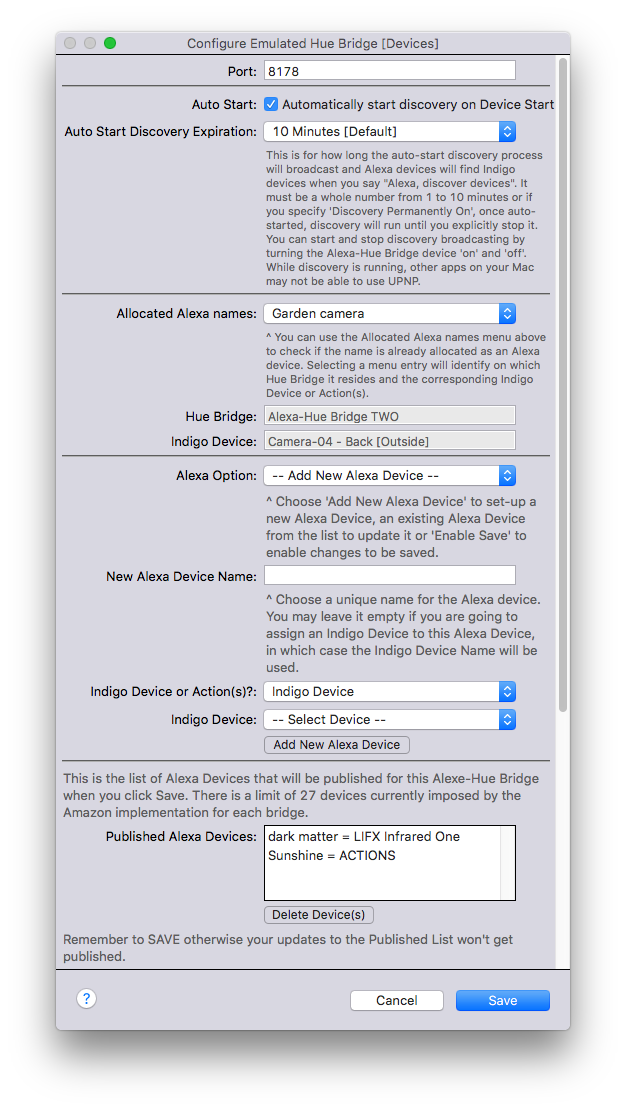
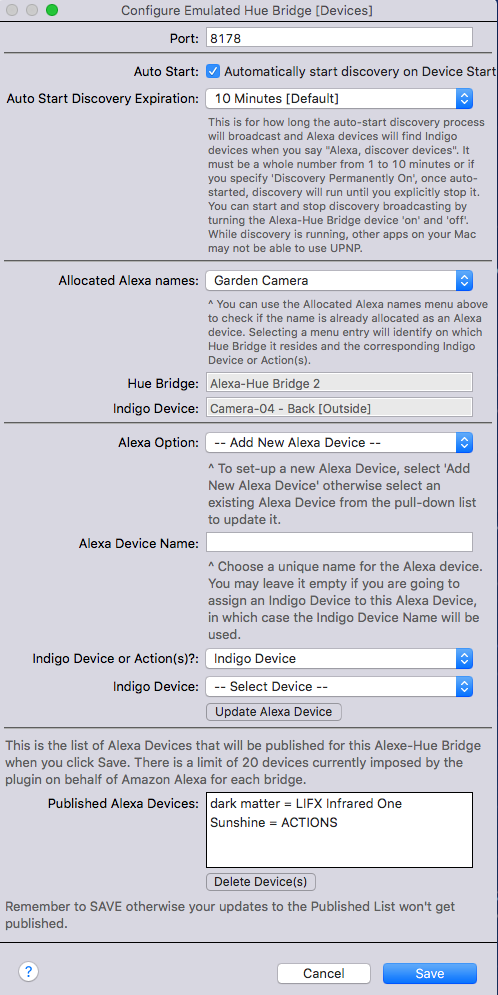
Handle Invalid Characters
Add processing to handle commas and semicolons in Alexa Names. Minor
bug fixes. Documentation updates.

diff --git a/Alexa-Hue Bridge.indigoPlugin/Contents/Server Plugin/plugin.py b/Alexa-Hue Bridge.indigoPlugin/Contents/Server Plugin/plugin.py
@@ -127,7 +127,7 @@ class Plugin(indigo.PluginBase):
 
     def checkRateLimit(self):
         limiter = self.globals['update']['updater'].getRateLimit()
-        indigo.server.log('RateLimit {limit:%d remaining:%d resetAt:%d}' % limiter)
+        self.generalLogger.info('RateLimit {limit:%d remaining:%d resetAt:%d}' % limiter)
 
 
     def startup(self):
@@ -604,6 +604,25 @@ class Plugin(indigo.PluginBase):
         return super(Plugin, self).getDeviceConfigUiValues(pluginProps, typeId, ahbDevId)
 
     ########################################
+    # This method is called to load the stored json data and make sure the Alexa Name keys are valid before returning data
+    # i.e. remove leading/trailing spaces, remove caharcters ',', ';', replace multiple concurrent spaces with one space, force to lower case
+    ########################################
+    def jsonLoadsProcess(self, dataToLoad):
+
+        publishedAlexaDevices = json.loads(dataToLoad)
+
+        alexaDeviceNameKeyList = []
+        for alexaDeviceNameKey, alexaDeviceData in publishedAlexaDevices.iteritems():
+            alexaDeviceNameKeyList.append(alexaDeviceNameKey)
+
+        for alexaDeviceNameKey in alexaDeviceNameKeyList:
+            alexaDeviceNameKeyProcessed = ' '. join((alexaDeviceNameKey.strip().lower().replace(',',' ').replace(';',' ')).split())
+            if alexaDeviceNameKeyProcessed != alexaDeviceNameKey:
+                publishedAlexaDevices[alexaDeviceNameKeyProcessed] = publishedAlexaDevices.pop(alexaDeviceNameKey)
+
+        return publishedAlexaDevices
+
+    ########################################
     # This method is called to refresh the list of published Alexa devices for a hueBridge device.
     ########################################
     def retrievePublishedDevices(self, valuesDict, ahbDevId, infoMsg, convertVersionTwoDevices):
@@ -615,7 +634,7 @@ class Plugin(indigo.PluginBase):
             if 'alexaDevices' not in valuesDict:
                 valuesDict['alexaDevices'] = json.dumps({})  # Empty dictionary in JSON container
 
-            publishedAlexaDevices = json.loads(valuesDict['alexaDevices'])
+            publishedAlexaDevices = self.jsonLoadsProcess(valuesDict['alexaDevices'])
 
             for alexaDeviceNameKey, alexaDeviceData in publishedAlexaDevices.iteritems():
                 if alexaDeviceData['mode'] == 'D':  # Device
@@ -658,12 +677,12 @@ class Plugin(indigo.PluginBase):
                                     versionTwoAlexaDeviceName = dev.name
                                     if 'alternate-name' in versionTwoAlexaDeviceData:
                                         versionTwoAlexaDeviceName = versionTwoAlexaDeviceData['alternate-name']
-                                    versionTwoAlexaDeviceNameKey = versionTwoAlexaDeviceName.lower()
+                                    versionTwoAlexaDeviceNameKey = ' '. join((versionTwoAlexaDeviceName.strip().lower()).split())
                                     if 'published' in versionTwoAlexaDeviceData:
                                         if versionTwoAlexaDeviceData['published'].lower() == 'true':
                                             # Do validity checks and discard (with message) if invalid
-                                            if '|' in versionTwoAlexaDeviceName:
-                                                indigo.server.error(u"Alexa Device (Plugin V2.x.x) '%s' definition detected in Indigo Device '%s': Unable to convert as Alexa Device Name cannot contain the vertical bar character i.e. '|'." % (versionTwoAlexaDeviceName, dev.name)) 
+                                            if ('|' in versionTwoAlexaDeviceName) or (',' in versionTwoAlexaDeviceName) or (';' in versionTwoAlexaDeviceName):
+                                                self.generalLogger.error(u"Alexa Device (Plugin V2.x.x) '%s' definition detected in Indigo Device '%s': Unable to convert as Alexa Device Name cannot contain the vertical bar character i.e. '|', the comma character i.e. ',' or the semicolon character i.e. ';'." % (versionTwoAlexaDeviceName, dev.name)) 
                                                 continue
 
                                             duplicateDetected = False
@@ -677,7 +696,7 @@ class Plugin(indigo.PluginBase):
                                                             self.generalLogger.error(u"Alexa Device (Plugin V2.x.x) '%s' definition detected in Indigo Device '%s': Unable to convert as Alexa Device Name this Alexa-Hue Bridge." % (alexaDeviceName, dev.name)) 
                                                         else:
                                                             alexaHueBridgeName = indigo.devices[alexaHueBridgeId].name
-                                                            self.generalLogger.error(u"Alexa Device (Plugin V2.x.x) '%s' definition detected in Indigo Device '%s': Unable to convert as Alexa Device Name is already allocated  on Alexa-Hue Bridge '%s'" % (alexaDeviceName, dev.name, alexaHueBridgeName)) 
+                                                            self.generalLogger.error(u"Alexa Device (Plugin V2.x.x) '%s' definition detected in Indigo Device '%s': Unable to convert as Alexa Device Name is already allocated on Alexa-Hue Bridge '%s'" % (alexaDeviceName, dev.name, alexaHueBridgeName)) 
                                             if duplicateDetected:
                                                 continue
             
@@ -735,7 +754,7 @@ class Plugin(indigo.PluginBase):
                     props = alexaHueBridge.pluginProps
                     alexaHueBridgeId = alexaHueBridge.id
                     if 'alexaDevices' in props:
-                        publishedAlexaDevices = json.loads(props['alexaDevices'])
+                        publishedAlexaDevices = self.jsonLoadsProcess(props['alexaDevices'])
                         self.globals['alexaHueBridge']['publishedOtherAlexaDevices'][alexaHueBridgeId] = {}
                         for alexaDeviceNameKey, alexaDeviceData in publishedAlexaDevices.iteritems():
                             if alexaDeviceData['mode'] == 'D':  # Device
@@ -756,7 +775,7 @@ class Plugin(indigo.PluginBase):
                             else:  # Not used
                                 continue
         except StandardError, e:
-            self.generalLogger.error(u"StandardError detected in retrieveOtherPublishedDevices for '%s'. Line '%s' has error='%s'" % (indigo.devices[ahbDev.id].name, sys.exc_traceback.tb_lineno, e))
+            self.generalLogger.error(u"StandardError detected in retrieveOtherPublishedDevices for '%s'. Line '%s' has error='%s'" % (indigo.devices[ahbDevId].name, sys.exc_traceback.tb_lineno, e))
 
     def validateDeviceConfigUi(self, valuesDict, typeId, ahbDevId):
         self.methodTracer.threaddebug(u"CLASS: Plugin")
@@ -921,15 +940,16 @@ class Plugin(indigo.PluginBase):
         # scan list of other Alexa-Hue Bridges
         for alexaHueBridgeId, alexaHueBridgeData in self.globals['alexaHueBridge']['publishedOtherAlexaDevices'].iteritems():
            for alexaDeviceNameKey, alexaDeviceData in alexaHueBridgeData.iteritems():
-                alexaDeviceNameKey = alexaDeviceNameKey.lower()
-                alexaDeviceName = alexaDeviceData['name']
+                alexaDeviceNameKey = alexaDeviceNameKey.lower().replace(',',' ').replace(';',' ')
+                alexaDeviceName = alexaDeviceData['name'].replace(',',' ').replace(';',' ')
                 self.globals['alexaDevicesListGlobal'][alexaDeviceNameKey] = int(alexaHueBridgeId)
+                alexaDeviceListKey = alexaDeviceNameKey + '|' + alexaDeviceName + '|' + str(alexaHueBridgeId)
                 alexaDeviceListKey = str('%s|%s|%s' %(alexaDeviceNameKey, alexaDeviceName, alexaHueBridgeId))
                 allocatedAlexaDevicesListGlobal.append((alexaDeviceListKey, alexaDeviceName))
 
         for alexaDeviceNameKey, alexaDeviceData in self.globals['alexaHueBridge'][ahbDevId]['publishedAlexaDevices'].iteritems():
-            alexaDeviceNameKey = alexaDeviceNameKey.lower()
-            alexaDeviceName = alexaDeviceData['name']
+            alexaDeviceNameKey = alexaDeviceNameKey.lower().replace(',',' ').replace(';',' ')
+            alexaDeviceName = alexaDeviceData['name'].replace(',',' ').replace(';',' ')
             self.globals['alexaDevicesListGlobal'][alexaDeviceNameKey] = ahbDevId
             alexaDeviceListKey = alexaDeviceNameKey + '|' + alexaDeviceName + '|' + str(ahbDevId)
             allocatedAlexaDevicesListGlobal.append((alexaDeviceListKey, alexaDeviceName))
@@ -1006,7 +1026,7 @@ class Plugin(indigo.PluginBase):
 
                     else:
                         valuesDict["alexaNameActionDevice"] = "D"
-                        deviceName = self.globals['alexaHueBridge']['publishedOtherAlexaDevices'][alexaHueBridgeId][alexaDeviceNameKey]['devName']
+                        deviceName = self.globals['alexaHueBridge']['publishedOtherAlexaDevices'][alexaHueBridgeId][alexaDeviceNameKey]['devName'].replace(',',' ').replace(';',' ')
                         deviceId = int(self.globals['alexaHueBridge']['publishedOtherAlexaDevices'][alexaHueBridgeId][alexaDeviceNameKey]['devId'])
                         if deviceId in indigo.devices:
                             valuesDict["alexaNameIndigoDevice"] = deviceName
@@ -1064,7 +1084,7 @@ class Plugin(indigo.PluginBase):
                                 valuesDict["alexaNameIndigoDimActionVariable"] = 'Variable #%s not found' % variableDimId
                     else:
                         valuesDict["alexaNameActionDevice"] = "D"
-                        deviceName = self.globals['alexaHueBridge'][alexaHueBridgeId]['publishedAlexaDevices'][alexaDeviceNameKey]['devName']
+                        deviceName = self.globals['alexaHueBridge'][alexaHueBridgeId]['publishedAlexaDevices'][alexaDeviceNameKey]['devName'].replace(',',' ').replace(';',' ')
                         deviceId = self.globals['alexaHueBridge'][alexaHueBridgeId]['publishedAlexaDevices'][alexaDeviceNameKey]['devId']
                         if deviceId in indigo.devices:
                             valuesDict["alexaNameIndigoDevice"] = deviceName
@@ -1084,8 +1104,8 @@ class Plugin(indigo.PluginBase):
 
 
         for alexaDeviceNameKey, alexaDeviceData in self.globals['alexaHueBridge'][ahbDevId]['publishedAlexaDevices'].iteritems():
-            alexaDeviceNameKey = alexaDeviceNameKey.lower()
-            alexaDeviceName = alexaDeviceData['name']
+            alexaDeviceNameKey = alexaDeviceNameKey.lower().replace(',',' ').replace(';',' ')
+            alexaDeviceName = alexaDeviceData['name'].replace(',',' ').replace(';',' ')
             alexaDeviceListKey = alexaDeviceNameKey + '|' + alexaDeviceName + '|' + str(ahbDevId)
             allocatedAlexaDevicesList.append((alexaDeviceListKey, alexaDeviceName))
 
@@ -1097,6 +1117,8 @@ class Plugin(indigo.PluginBase):
 
         if "alexaDevicesList" in valuesDict:
             alexaDeviceNameKey, alexaDeviceName, alexaHueBridgeId = valuesDict["alexaDevicesList"].split("|")
+            alexaDeviceNameKey.replace(',',' ').replace(';',' ')
+            alexaDeviceName.replace(',',' ').replace(';',' ')
 
             alexaHueBridgeId = int(alexaHueBridgeId)
             if  alexaHueBridgeId == 0:
@@ -1193,6 +1215,18 @@ class Plugin(indigo.PluginBase):
             errorsDict["showAlertText"] = "New Alexa Name cannot contain the vertical bar character i.e. '|'"
             return (valuesDict, errorsDict) 
 
+        if ',' in valuesDict["newAlexaName"]:
+            errorsDict = indigo.Dict()
+            errorsDict["newAlexaName"] = "New Alexa Name cannot contain the comma character i.e. ','"
+            errorsDict["showAlertText"] = "New Alexa Name cannot contain the comma character i.e. ','"
+            return (valuesDict, errorsDict) 
+
+        if ';' in valuesDict["newAlexaName"]:
+            errorsDict = indigo.Dict()
+            errorsDict["newAlexaName"] = "New Alexa Name cannot contain the semicolon character i.e. ';'"
+            errorsDict["showAlertText"] = "New Alexa Name cannot contain the semicolon character i.e. ';'"
+            return (valuesDict, errorsDict) 
+
         newAlexaName = valuesDict["newAlexaName"]
         newAlexaNameKey = newAlexaName.lower()
         if newAlexaNameKey in self.globals['alexaDevicesListGlobal']:
@@ -1227,7 +1261,7 @@ class Plugin(indigo.PluginBase):
 
 
         try:
-            publishedAlexaDevices = json.loads(valuesDict['alexaDevices'])
+            publishedAlexaDevices = self.jsonLoadsProcess(valuesDict['alexaDevices'])
             publishedAlexaDevices[newAlexaNameKey] = {}                
             publishedAlexaDevices[newAlexaNameKey]['hashKey'] = self.createHashKey(newAlexaNameKey) 
             publishedAlexaDevices[newAlexaNameKey]['name'] = newAlexaName
@@ -1266,7 +1300,7 @@ class Plugin(indigo.PluginBase):
                 valuesDict["showLimitMessage"] = True                
 
         except StandardError, e:
-            self.generalLogger.error(u"StandardError detected in addDevice for '%s'. Line '%s' has error='%s'" % (indigo.devices[ahbDevId].name, sys.exc_traceback.tb_lineno, e))
+            self.generalLogger.error(u"StandardError detected in updateAlexaDevice for '%s'. Line '%s' has error='%s'" % (indigo.devices[ahbDevId].name, sys.exc_traceback.tb_lineno, e))
 
         self.generalLogger.debug(u'addNewAlexaDevice VALUESDICT = %s' % valuesDict)
         return valuesDict
@@ -1298,6 +1332,18 @@ class Plugin(indigo.PluginBase):
             errorsDict = indigo.Dict()
             errorsDict["updatedAlexaDeviceName"] = "New Alexa Name cannot contain the vertical bar character i.e. '|'"
             errorsDict["showAlertText"] = "New Alexa Name cannot contain the vertical bar character i.e. '|'"
+            return (valuesDict, errorsDict)
+
+        if ',' in updatedAlexaDeviceName:
+            errorsDict = indigo.Dict()
+            errorsDict["updatedAlexaDeviceName"] = "New Alexa Name cannot contain the comma character i.e. ','"
+            errorsDict["showAlertText"] = "New Alexa Name cannot contain the comma character i.e. ','"
+            return (valuesDict, errorsDict)
+
+        if ';' in updatedAlexaDeviceName:
+            errorsDict = indigo.Dict()
+            errorsDict["updatedAlexaDeviceName"] = "New Alexa Name cannot contain the semicolon character i.e. ';'"
+            errorsDict["showAlertText"] = "New Alexa Name cannot contain the semicolon character i.e. ';'"
             return (valuesDict, errorsDict)
 
         if valuesDict["actionOrDevice"] == 'D':
@@ -1334,7 +1380,7 @@ class Plugin(indigo.PluginBase):
 
 
         try:
-            publishedAlexaDevices = json.loads(valuesDict['alexaDevices'])
+            publishedAlexaDevices = self.jsonLoadsProcess(valuesDict['alexaDevices'])
 
             updatedAlexaDeviceData = {}
             updatedAlexaDeviceData['hashKey'] = self.createHashKey(updatedAlexaDeviceNameKey) 
@@ -1344,7 +1390,7 @@ class Plugin(indigo.PluginBase):
                 dev = indigo.devices[devId]
                 updatedAlexaDeviceData['mode'] = 'D' 
                 updatedAlexaDeviceData['devId'] = devId 
-                updatedAlexaDeviceData['devName'] = dev.name
+                updatedAlexaDeviceData['devName'] = dev.name.replace(',',' ').replace(';',' ')
             else: # Assume 'A' = Action
                 updatedAlexaDeviceData['mode'] = 'A' 
                 updatedAlexaDeviceData['actionOnId']      = valuesDict["sourceOnActionMenu"]
@@ -1380,7 +1426,7 @@ class Plugin(indigo.PluginBase):
                 valuesDict["showLimitMessage"] = True                
 
         except StandardError, e:
-            self.generalLogger.error(u"StandardError detected in addDevice for '%s'. Line '%s' has error='%s'" % (indigo.devices[ahbDevId].name, sys.exc_traceback.tb_lineno, e))
+            self.generalLogger.error(u"StandardError detected in updateAlexaDevice for '%s'. Line '%s' has error='%s'" % (indigo.devices[ahbDevId].name, sys.exc_traceback.tb_lineno, e))
 
         self.generalLogger.debug(u'updateAlexaDevice VALUESDICT = %s' % valuesDict)
         return valuesDict
@@ -1396,7 +1442,7 @@ class Plugin(indigo.PluginBase):
 
         # Delete the device's properties for this plugin and delete the entry in self.globals['alexaHueBridge'][ahbDev.id]['publishedAlexaDevices']
 
-        publishedAlexaDevices = json.loads(valuesDict['alexaDevices'])
+        publishedAlexaDevices = self.jsonLoadsProcess(valuesDict['alexaDevices'])
 
         for alexaDevice in valuesDict['publishedAlexaDevicesList']:
             alexaDeviceNameKey, alexaDeviceName = alexaDevice.split('|')
@@ -1424,7 +1470,8 @@ class Plugin(indigo.PluginBase):
         returnList = list()
         if 'publishedAlexaDevices' in self.globals['alexaHueBridge'][ahbDevId]:
             for alexaDeviceNameKey, alexaData in self.globals['alexaHueBridge'][ahbDevId]['publishedAlexaDevices'].iteritems():
-                alexaDeviceName = alexaData['name']
+                alexaDeviceNameKey = alexaDeviceNameKey.replace(',',' ').replace(';',' ')
+                alexaDeviceName = alexaData['name'].replace(',',' ').replace(';',' ')
                 listName = alexaDeviceName
                 if alexaData['mode'] == 'D':  # Device
                     if alexaData['devId'] in indigo.devices:
@@ -1467,7 +1514,7 @@ class Plugin(indigo.PluginBase):
     def turnOnOffDevice(self, ahbDevId, alexaDeviceNameKey, turnOn):
 
         ahbDev = indigo.devices[ahbDevId]
-        publishedAlexaDevices =  json.loads(ahbDev.pluginProps['alexaDevices'])
+        publishedAlexaDevices =  self.jsonLoadsProcess(ahbDev.pluginProps['alexaDevices'])
         alexaDeviceNameKey = alexaDeviceNameKey.lower()
         if alexaDeviceNameKey in publishedAlexaDevices:
             alexaDeviceData = publishedAlexaDevices[alexaDeviceNameKey]
@@ -1513,7 +1560,7 @@ class Plugin(indigo.PluginBase):
     def setDeviceBrightness(self, ahbDevId, alexaDeviceNameKey, brightness):
 
         ahbDev = indigo.devices[ahbDevId]
-        publishedAlexaDevices =  json.loads(ahbDev.pluginProps['alexaDevices'])
+        publishedAlexaDevices =  self.jsonLoadsProcess(ahbDev.pluginProps['alexaDevices'])
         alexaDeviceNameKey = alexaDeviceNameKey.lower()
         if alexaDeviceNameKey in publishedAlexaDevices:
             alexaDevice = publishedAlexaDevices[alexaDeviceNameKey]

diff --git a/Alexa-Hue Bridge.indigoPlugin/Contents/Server Plugin/hue_listener.py b/Alexa-Hue Bridge.indigoPlugin/Contents/Server Plugin/hue_listener.py
@@ -280,7 +280,7 @@ class HttpdRequestHandler(SocketServer.BaseRequestHandler):
         try:
             ahbDev = indigo.devices[ahbDevId]
             ahbDevName = ahbDev.name
-            publishedAlexaDevices =  json.loads(ahbDev.pluginProps['alexaDevices'])
+            publishedAlexaDevices =  self.jsonLoadsProcess(ahbDev.pluginProps['alexaDevices'])
 
             alexaDeviceNameKey = PLUGIN.globals['alexaHueBridge'][ahbDevId]['hashKeys'][alexaDeviceHashedKey]
             if alexaDeviceNameKey in publishedAlexaDevices:
@@ -369,7 +369,7 @@ class HttpdRequestHandler(SocketServer.BaseRequestHandler):
         PLUGIN.serverLogger.debug(u"_createFullDeviceDict: publishedAlexaDevices: \n%s" % str(PLUGIN.globals['alexaHueBridge'][ahbDevId]['publishedAlexaDevices']))
 
         ahbDev = indigo.devices[ahbDevId]
-        publishedAlexaDevices =  json.loads(ahbDev.pluginProps['alexaDevices'])
+        publishedAlexaDevices =  self.jsonLoadsProcess(ahbDev.pluginProps['alexaDevices'])
 
         for alexaDeviceNameKey, AlexaDeviceData in publishedAlexaDevices.iteritems():
             alexaDeviceHashKey = PLUGIN.globals['alexaHueBridge'][ahbDevId]['publishedAlexaDevices'][alexaDeviceNameKey]['hashKey']
@@ -377,6 +377,27 @@ class HttpdRequestHandler(SocketServer.BaseRequestHandler):
             PLUGIN.serverLogger.debug(u"_createFullDeviceDict: new device added: \n%s" % str(newDeviceDict))
             returnDict[alexaDeviceHashKey] = newDeviceDict
         return returnDict
+
+    ########################################
+    # This method is called to load the stored json data and make sure the Alexa Name keys are valid before returning data
+    # i.e. remove leading/trailing spaces, remove caharcters ',', ';', replace multiple concurrent spaces with one space, force to lower case
+    ########################################
+    def jsonLoadsProcess(self, dataToLoad):
+
+        publishedAlexaDevices = json.loads(dataToLoad)
+
+        alexaDeviceNameKeyList = []
+        for alexaDeviceNameKey, alexaDeviceData in publishedAlexaDevices.iteritems():
+            alexaDeviceNameKeyList.append(alexaDeviceNameKey)
+
+        for alexaDeviceNameKey in alexaDeviceNameKeyList:
+            alexaDeviceNameKeyProcessed = ' '. join((alexaDeviceNameKey.strip().lower().replace(',',' ').replace(';',' ')).split())
+            if alexaDeviceNameKeyProcessed != alexaDeviceNameKey:
+                publishedAlexaDevices[alexaDeviceNameKeyProcessed] = publishedAlexaDevices.pop(alexaDeviceNameKey)
+
+        return publishedAlexaDevices
+
+
 
 
 

diff --git a/README.md b/README.md
@@ -27,13 +27,16 @@ The plugin is quite straight-forward: the first thing you’ll want to do is ins
 Migration from Version 2
 ------------------------
 
-On the initial install there will be no Version 3 definitions for any of the V2 Alexa Devices previously known to an Alexa-Hue Bridge device. You will need to do an Edit Device Settings for each Alexa-Hue Bridge. When you do this, there will be a short delay while the plugin scans Indigo devices for V2 definitions associated with the Alexa-Hue Bridge you are editing. It will convert each Version 2 definition it discovers to Version 3 and output a message to the Indigo Event Log.
+On the initial install there will be no Version 3 definitions for any of the V2 Alexa Devices previously known to an Alexa-Hue Bridge device. You will need to do an Edit Device Settings for each Alexa-Hue Bridge. When you do this, there will be a short delay while the plugin scans Indigo devices for V2 definitions associated with the Alexa-Hue Bridge you are editing. It will convert each valid Version 2 definition it discovers to Version 3 and output a message to the Indigo Event Log.
 <pre><code>
 Alexa Device (Plugin V2.x.x) 'Device One' definition detected in Indigo Device 'Device One': Converting to V3 format.
 Alexa Device (Plugin V2.x.x) 'Device Two' definition detected in Indigo Device 'Device Two': Converting to V3 format.
 </code></pre>
-if you have more than 20 devices defined to a Version 2 Alexa-Hue Bridge, you will get a warning message (shown as an error to make sure you don't miss it!), similar to:
-<span style="color:red">
+In the event that the version 2 assigned Alexa name is invalid the migration will be skipped for this device. The name can't contain a vertical bar character ('|'), a comma character (',') or a semicolon character (';'). In the event that thsi happens an error message will be output to the Indigo Event log, similar to:<span style="color:red">
+Alexa Device (Plugin V2.x.x) 'detector, one' definition detected in Indigo Device 'Detector 1': Unable to convert as Alexa Device Name cannot contain the vertical bar character i.e. '|', the comma character i.e. ',' or the semicolon character i.e. ';'.
+</span>    
+
+if you have more than 20 devices defined to a Version 2 Alexa-Hue Bridge, you will get a warning message (shown as an error to make sure you don't miss it!), similar to:<span style="color:red">
 'Alexa-Hue Bridge 1' updated and now has 25 Alexa Devices published [LIMIT OF 20 DEVICES EXCEEDED - DISCOVERY MAY NOT WORK!!!]
 Move excess Alexa devices to another existing or new Alexa-Hue Bridge
 </span>
@@ -133,7 +136,7 @@ See the ** Migration from Version 2 ** section above for a description of Versio
 
 * **New Alexa Device Name**
 
-    If adding a new Alexa Device, enter the name that you want Alexa to respond to. If you are going to associate this new Alexa Device with an Indigo Device, you can leave the field blank and the plugin will use the Indigo device name as the Alexa name. Otherwise, if you are going to associate this new Alexa Device with Indigo Actions you have to provide a name. The name field is not allowed to contain a vertical bar character ('|'). You are not allowed to define duplicate Alexa Names (across all Alexa-Hue Bridges) and this will will be flagged as an error
+    If adding a new Alexa Device, enter the name that you want Alexa to respond to. If you are going to associate this new Alexa Device with an Indigo Device, you can leave the field blank and the plugin will use the Indigo device name as the Alexa name. Otherwise, if you are going to associate this new Alexa Device with Indigo Actions you have to provide a name. The name field is not allowed to contain a vertical bar character ('|'), a comma character (',') or a semicolon character (';'). You are not allowed to define duplicate Alexa Names (across all Alexa-Hue Bridges) and this will will be flagged as an error
 
 * **Alexa Device Name**
 
